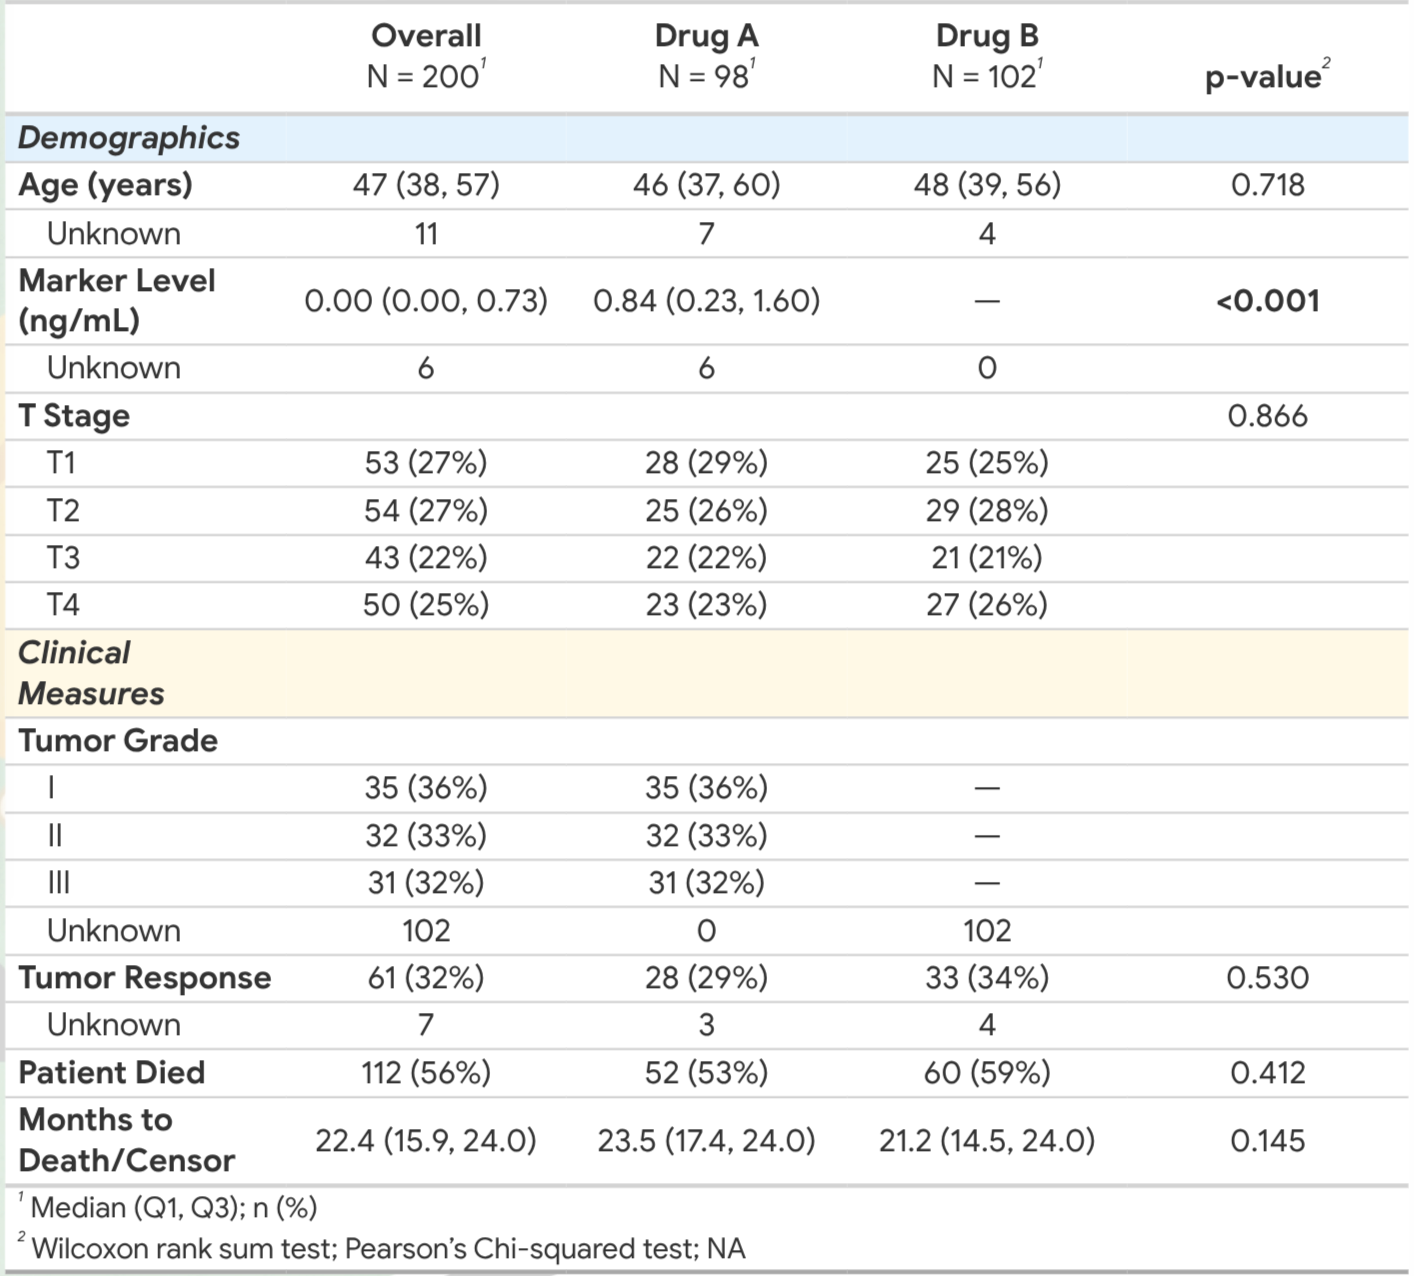
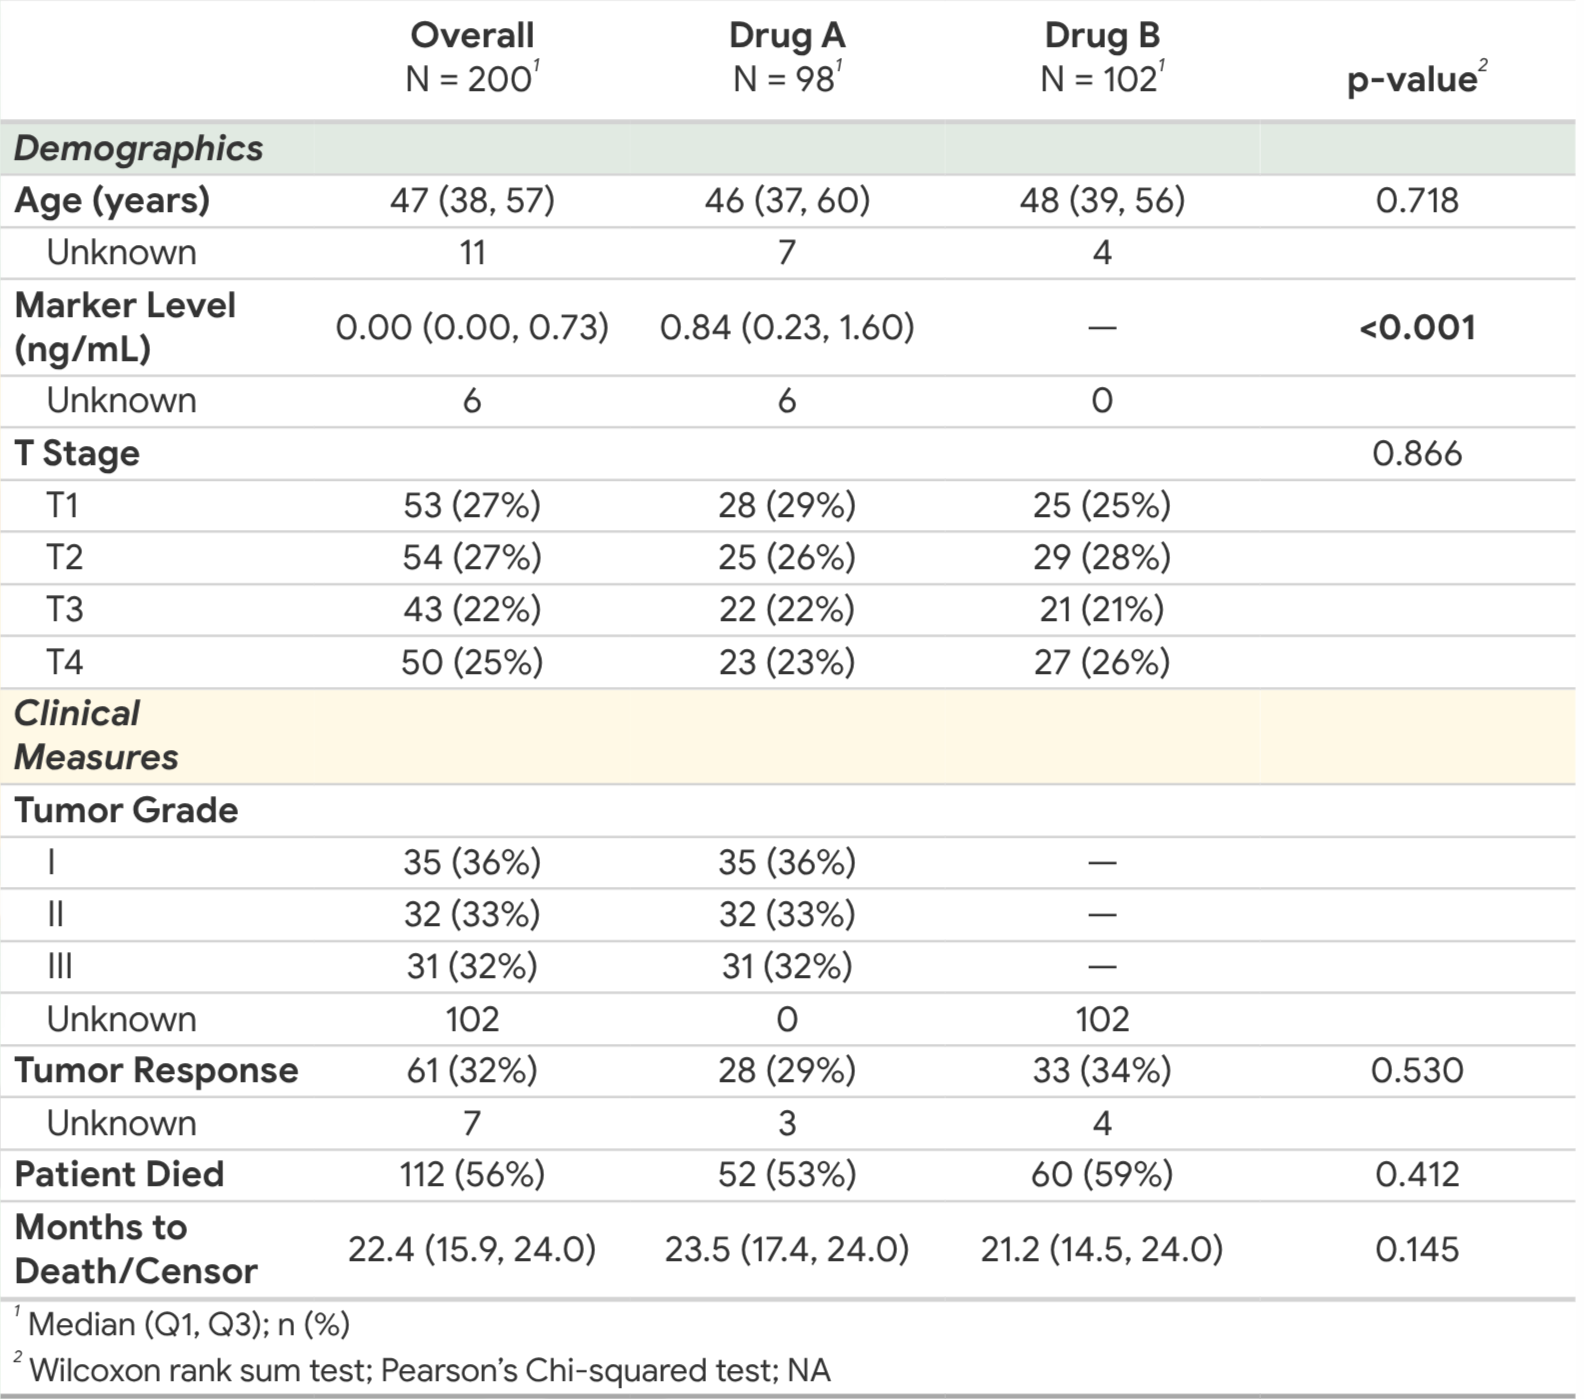
docs(slides): refine slide content and group color palette   - Simplified dictionary label priority explanation   - Swapped group header color from blue (#E3F2FD) to green (#E1EAE2)   - Added .smallest code style; reduced fragment text size on attributes slide   - Updated final_table.png screenshot 

diff --git a/inst/slides/slides.scss b/inst/slides/slides.scss
@@ -103,3 +103,7 @@ code {
   border: 1px solid #808080;
   border-radius: 6px !important;
 }
+
+.smallest code {
+  padding: 1px !important;
+}
